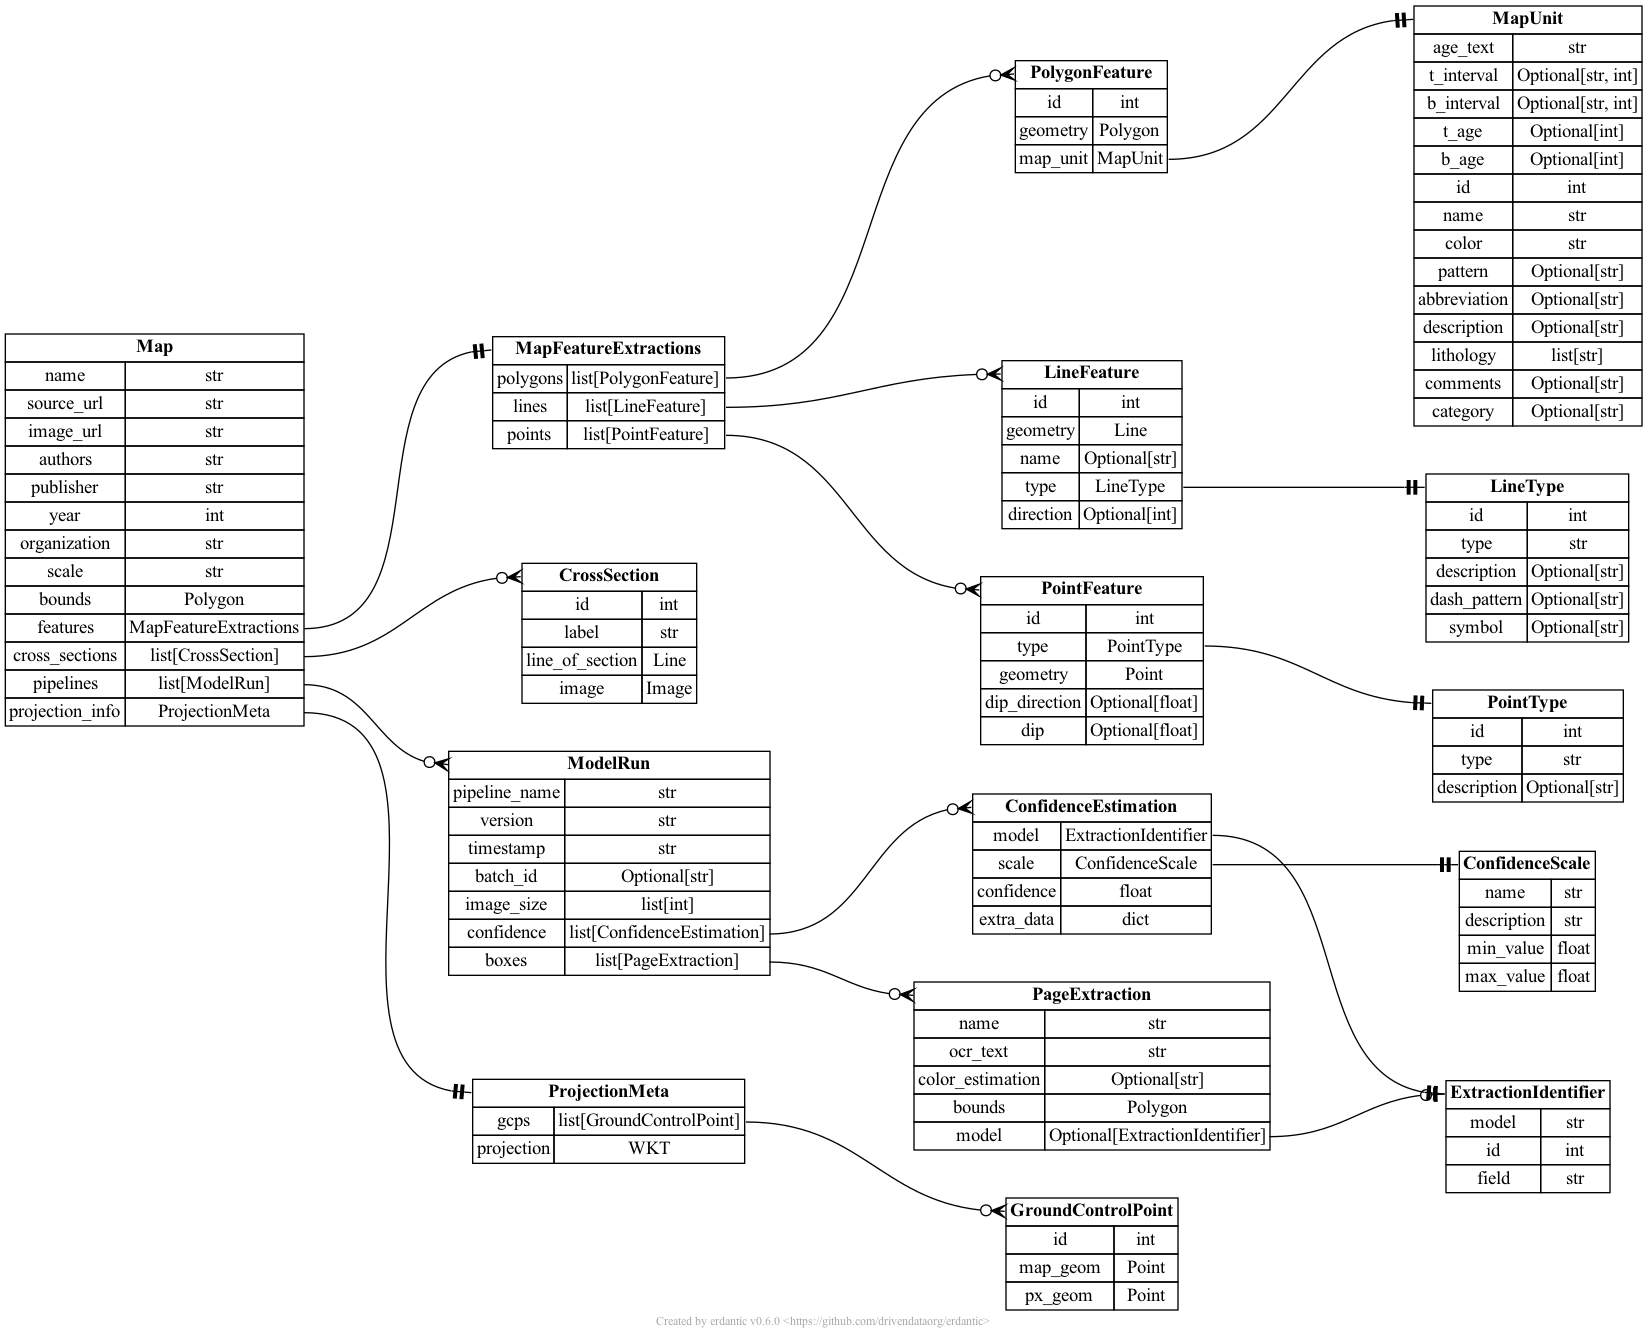
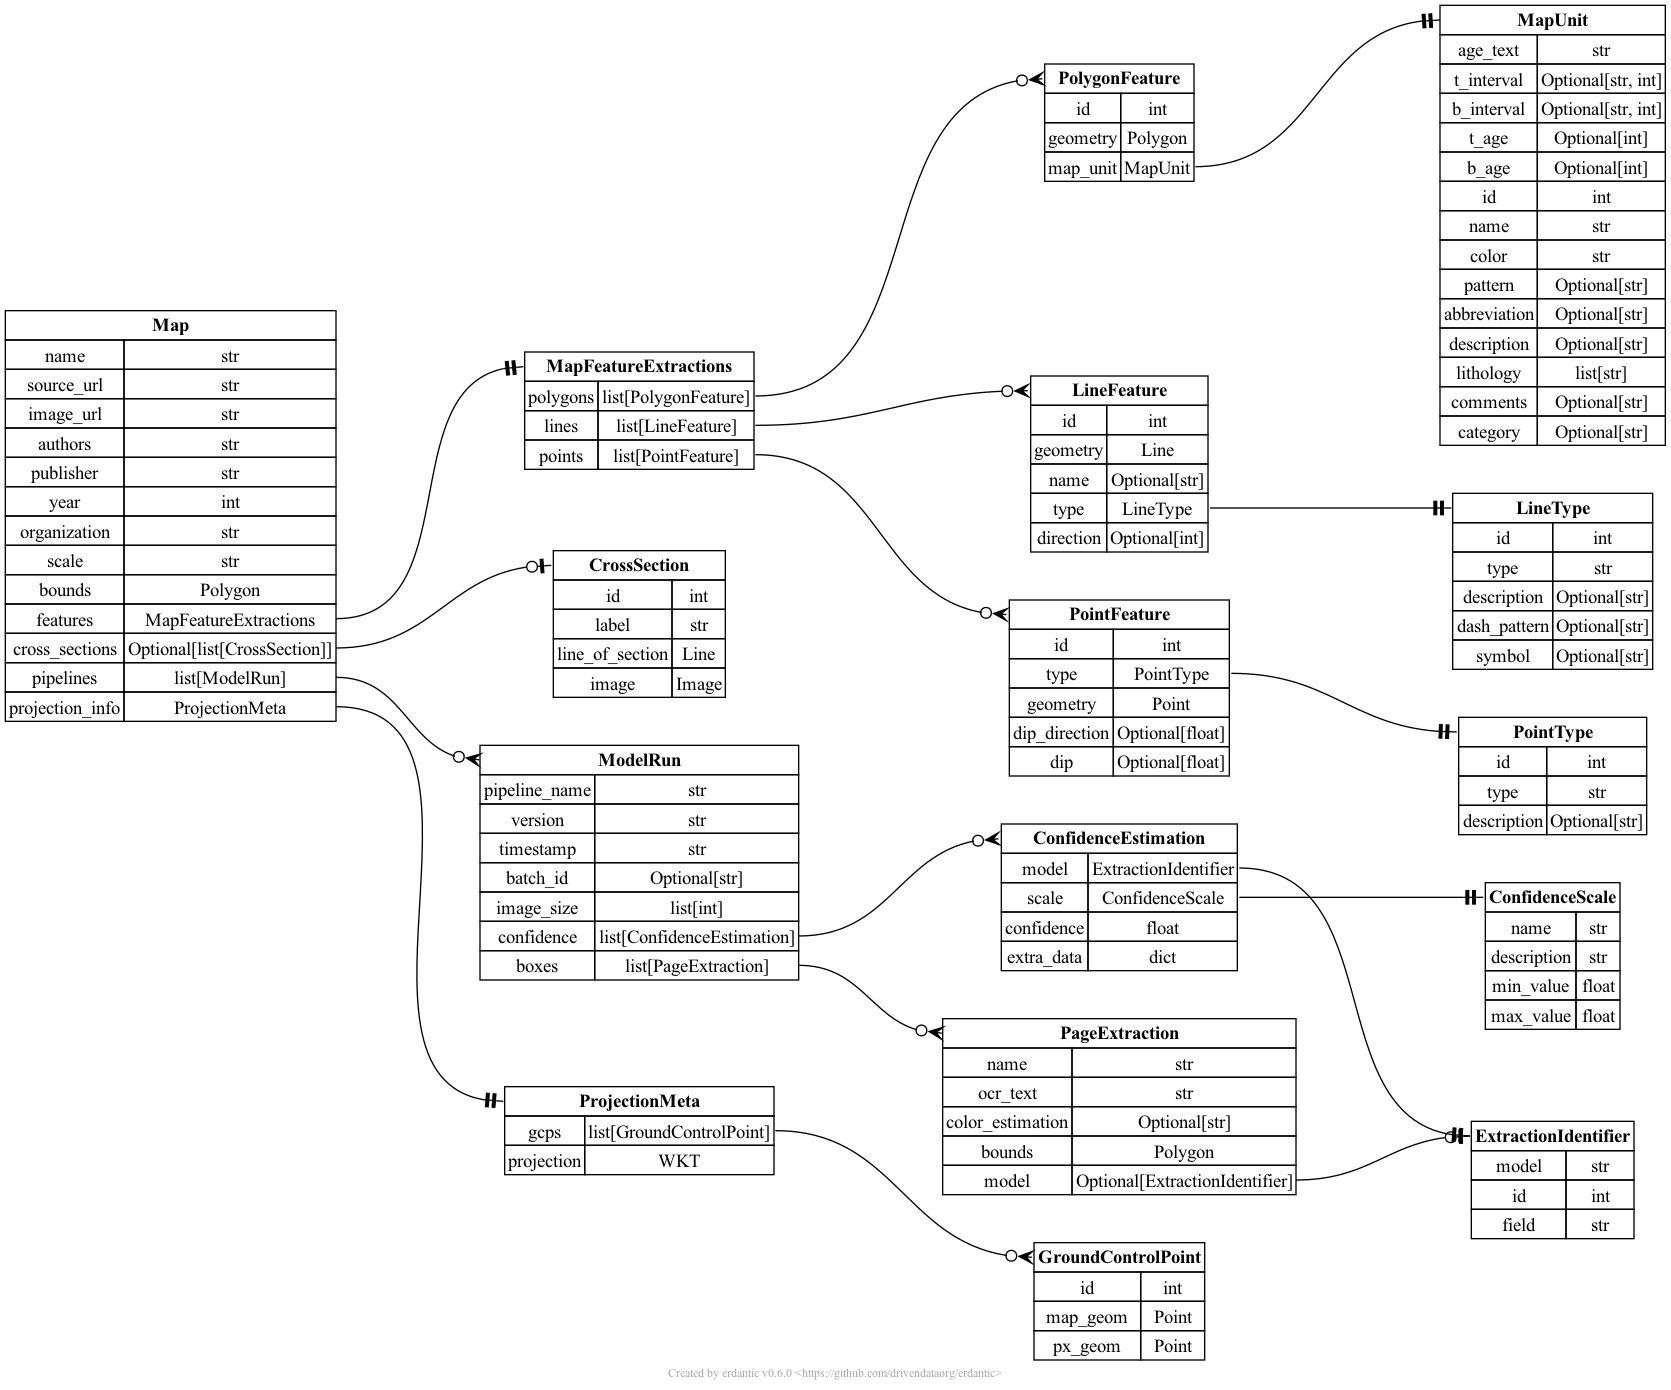
Make cross-sections optional
Makes it clearer whether a pipeline didn't find any cross sections vs. didn't search for them.

diff --git a/ta1/output.py b/ta1/output.py
@@ -226,7 +226,7 @@ class Map(BaseModel):
     bounds: Polygon = Field(..., description="Map geographic bounds")
 
     features: MapFeatureExtractions
-    cross_sections: list[CrossSection]
+    cross_sections: Optional[list[CrossSection]]
 
     pipelines: list[ModelRun]
     projection_info: ProjectionMeta

diff --git a/ta1/output.md b/ta1/output.md
@@ -14,8 +14,11 @@
 - **`scale`** *(string)*: Map scale.
 - **`bounds`**: Map geographic bounds.
 - **`features`**: Refer to *[MapFeatureExtractions](#MapFeatureExtractions)*.
-- **`cross_sections`** *(array)*
-  - **Items**: Refer to *[CrossSection](#CrossSection)*.
+- **`cross_sections`**
+  - **Any of**
+    - *array*
+      - **Items**: Refer to *[CrossSection](#CrossSection)*.
+    - *null*
 - **`pipelines`** *(array)*
   - **Items**: Refer to *[ModelRun](#ModelRun)*.
 - **`projection_info`**: Refer to *[ProjectionMeta](#ProjectionMeta)*.
